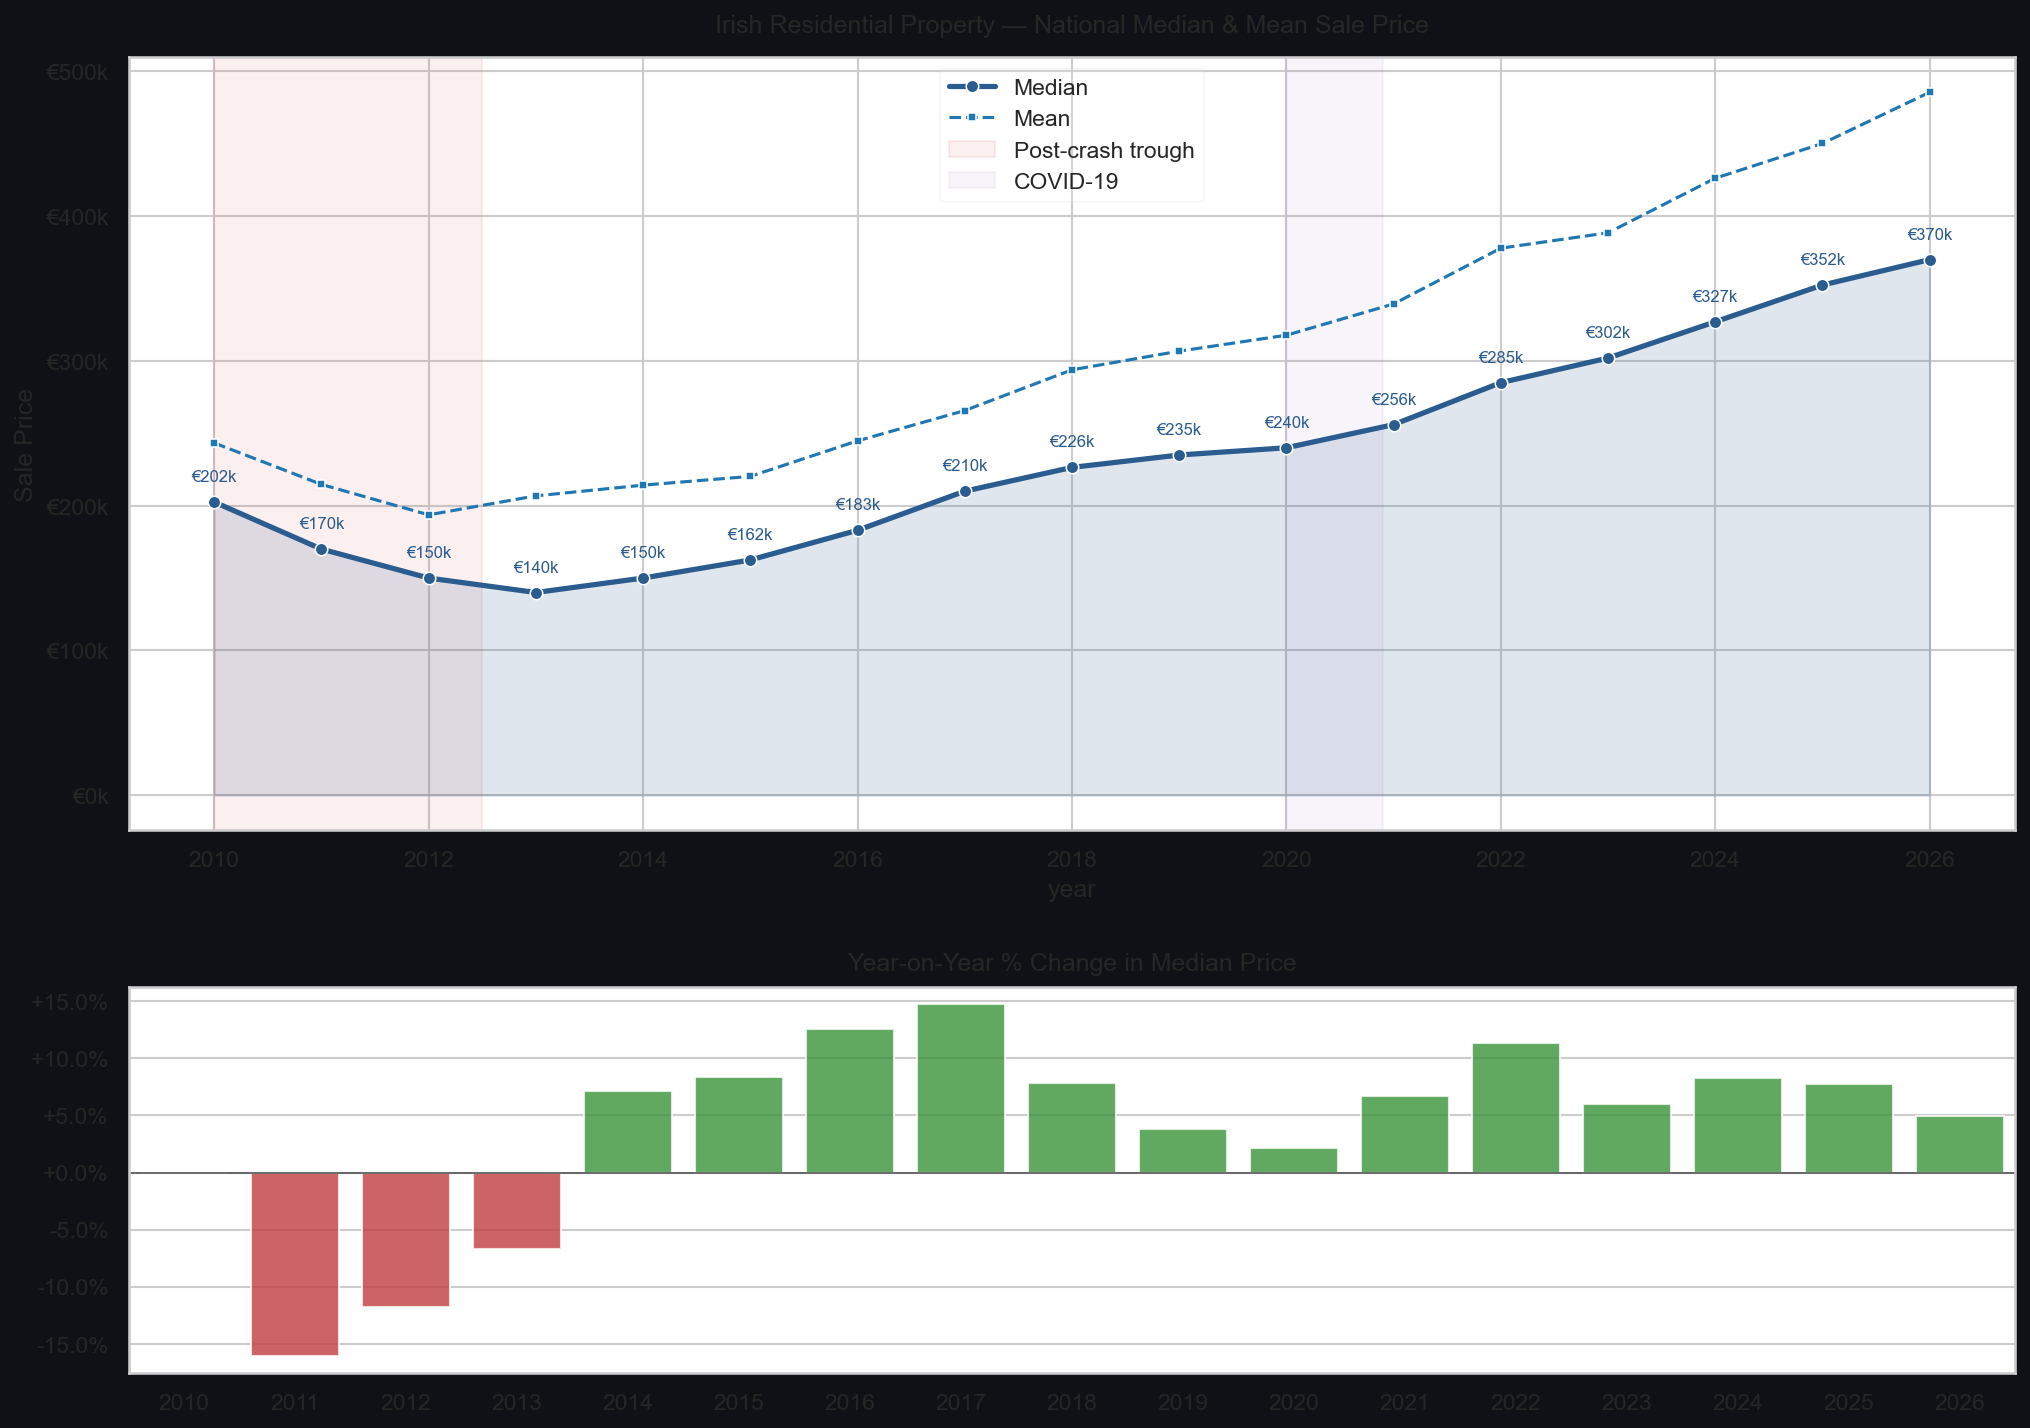
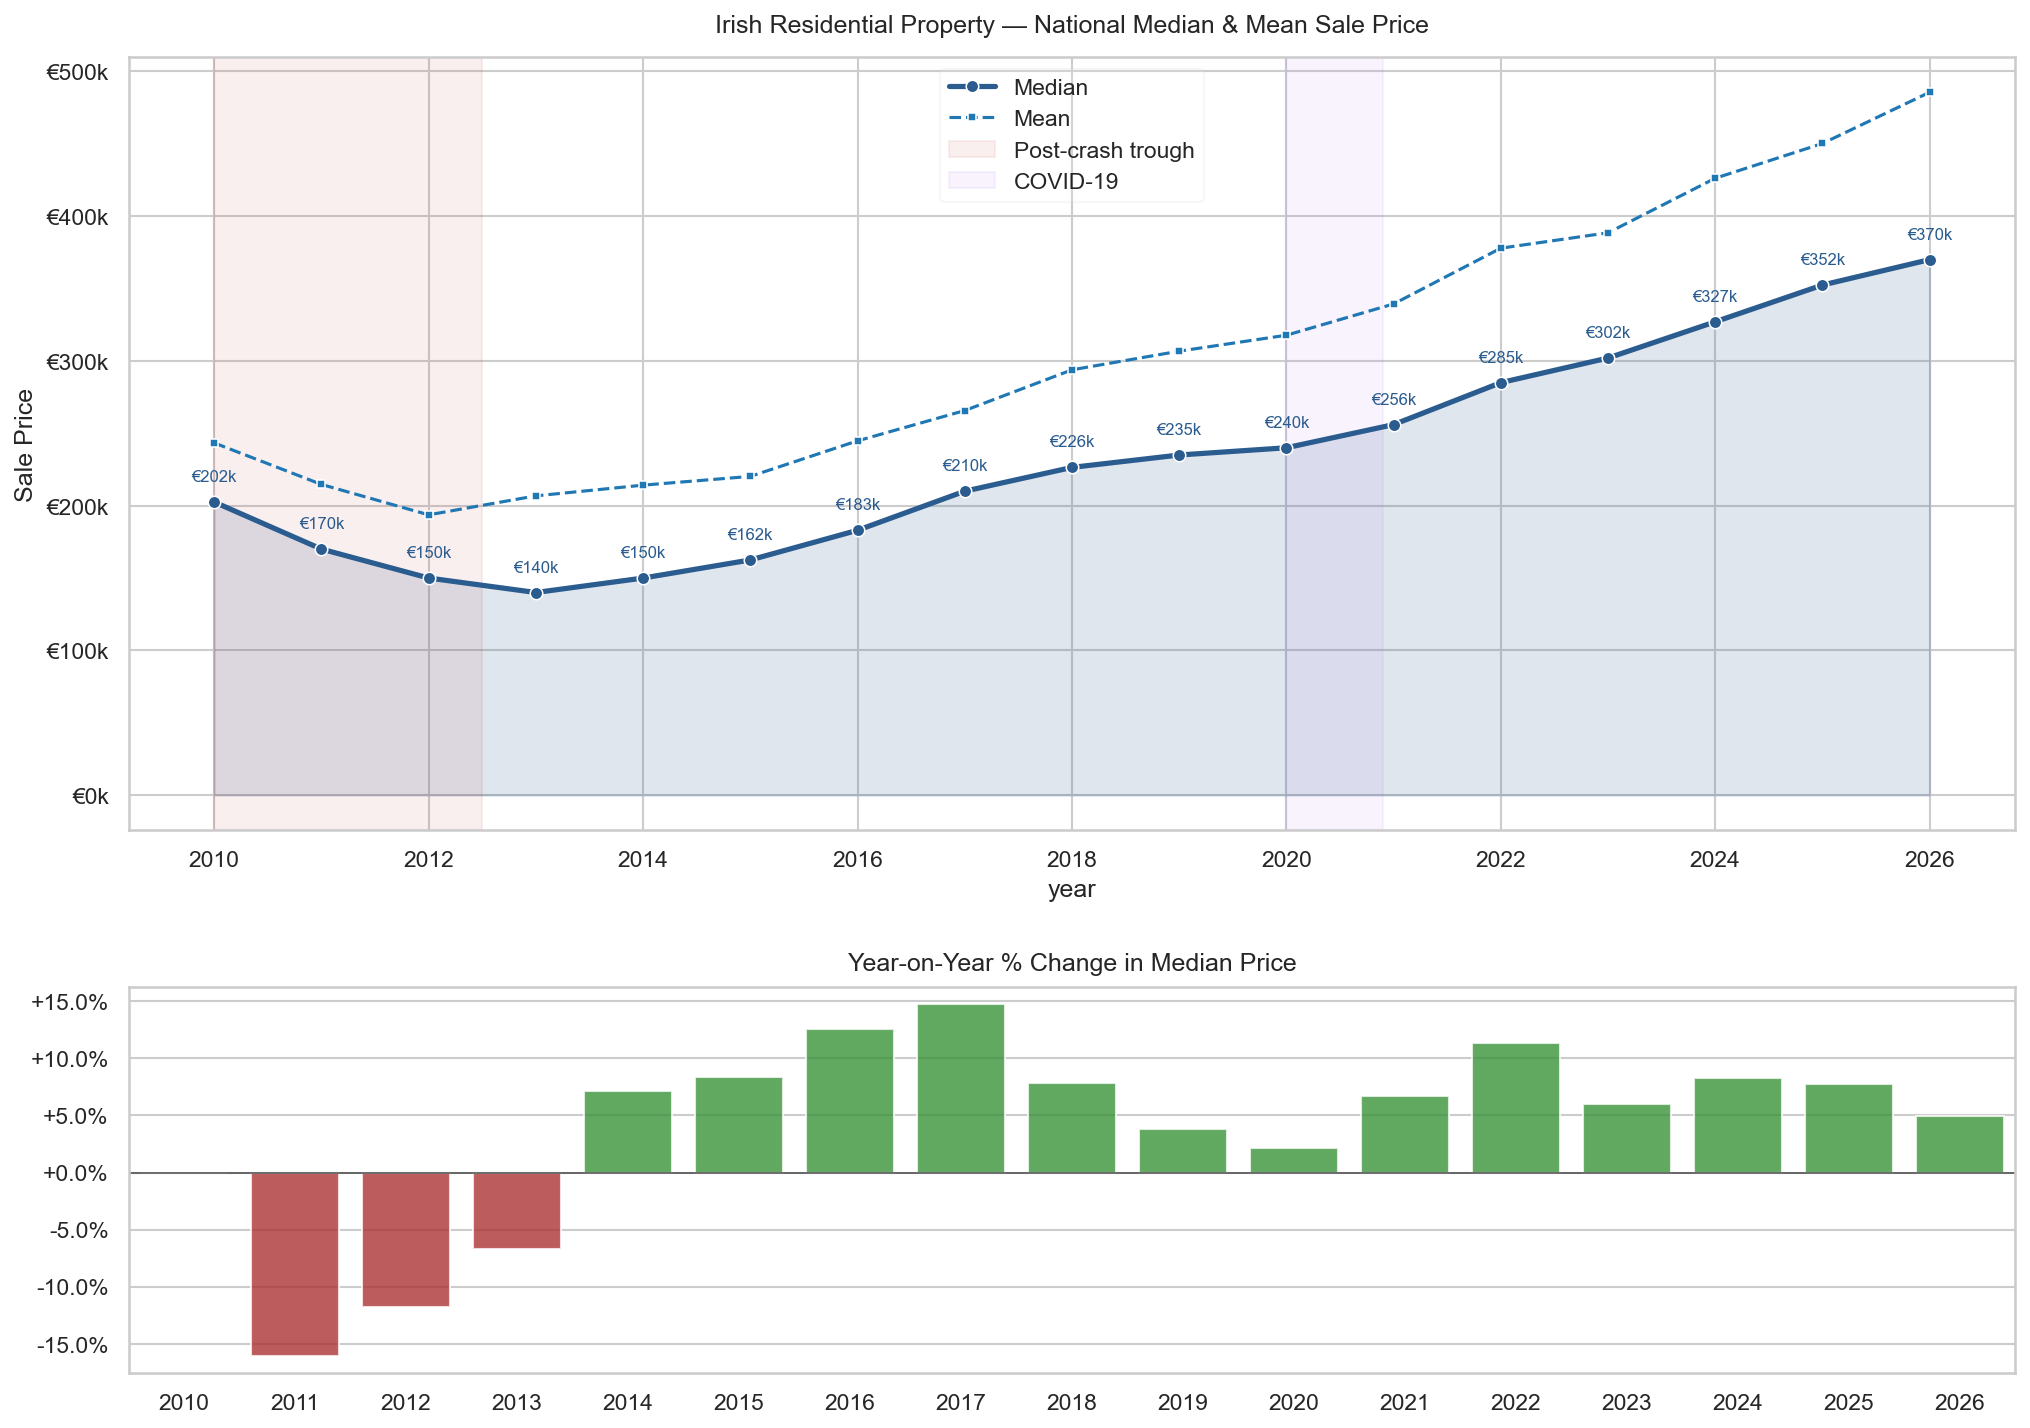
color changes for vizualisation 1

Changed region(s): [[0.0, 0.0, 1.0, 1.0]]

diff --git a/src/visualization.py b/src/visualization.py
@@ -7,10 +7,10 @@ def visualisation1(annual):
     ACCENT = "#2b5c8f"  # Main median line color (e.g., steel blue)
     BLUE = "#1f77b4"  # Mean line color
     GREEN = "#2ca02c"  # Positive YoY percentage bars
-    RED = "#d62728"  # Negative YoY percentage bars & post-crash highlight
-    PURPLE = "#9467bd"  # COVID-19 highlight
+    RED = "#c21e1e"  # Negative YoY percentage bars & post-crash highlight
+    PURPLE = "#a45ee9"  # COVID-19 highlight
 
-    sns.set_theme(style="whitegrid", palette="muted")
+    sns.set_theme(style="whitegrid")
 
     fig, axes = plt.subplots(
         2, 1, figsize=(14, 10), gridspec_kw={"height_ratios": [2, 1]}
@@ -109,6 +109,6 @@ def visualisation1(annual):
 
     plt.tight_layout(pad=2)
     plt.savefig(
-        "outputs/national_price_trend.png", dpi=150, bbox_inches="tight", facecolor="#0f1117"
+        "outputs/national_price_trend.png", dpi=150, bbox_inches="tight"
     )
     plt.show()
